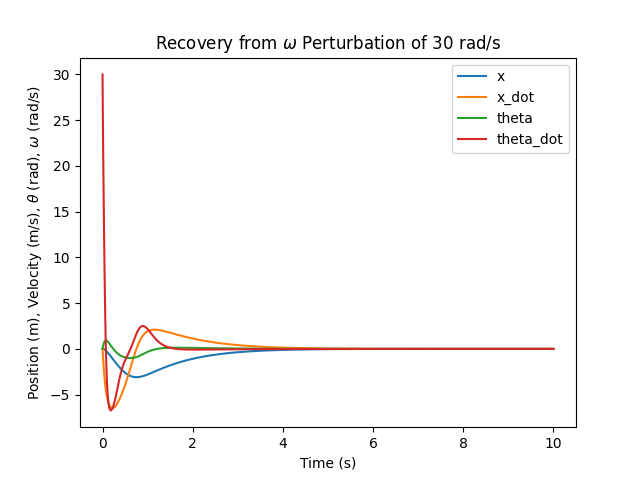
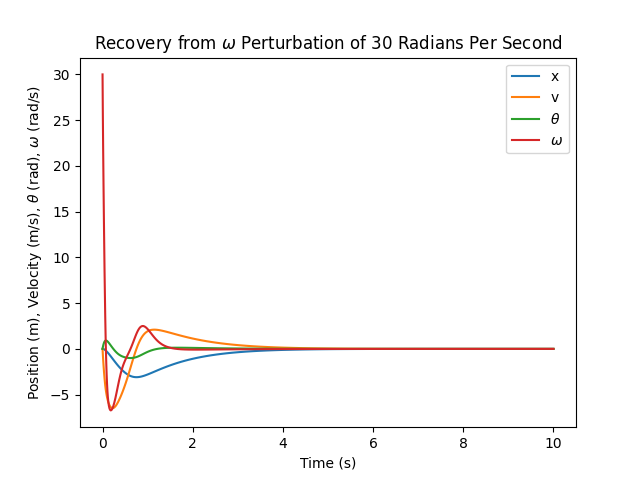
cleaned up graphs

Changed region(s): [[0.125, 0.0625, 0.875, 0.125], [0.7188, 0.1562, 0.875, 0.3125], [0.7188, 0.1562, 0.75, 0.25]]

diff --git a/mini_project/cart_pole.py b/mini_project/cart_pole.py
@@ -127,8 +127,8 @@ def test_controller(t, x, theta, f, x_dot_dot, theta_dot_dot, K, state_0=None, t
     Values must be substituted in.
     """
     if state_0 is None:
-        state_0 = [0, 0, np.radians(70), 0]  # recovery from being tilted 70 degrees
-        # state_0 = [-15, 0, 0, 0]  # recovery from being offset horizontally by 15m
+        # state_0 = [0, 0, np.radians(70), 0]  # recovery from being tilted 70 degrees
+        state_0 = [-15, 0, 0, 0]  # recovery from being offset horizontally by 15m
         # state_0 = [0, 5, 0, 0]  # recovery from being imparted a velocity of 5 m/s
         # state_0 = [0, 0, 0, 30]  # recovery from being imparted an angular velocity of 30 rad/s
 
@@ -196,13 +196,13 @@ def main():
 
     # graph
     t_vals, state_vals = test_controller(t, x, theta, f, x_dot_dot, theta_dot_dot, K)
-    for i, label in enumerate(['x', 'x_dot', 'theta', 'theta_dot']):
+    for i, label in enumerate(['x', 'v', r'$\theta$', r'$\omega$']):
         plt.plot(t_vals, state_vals[i, :], label=label)
     plt.xlabel('Time (s)')
     plt.ylabel(r'Position (m), Velocity (m/s), $\theta$ (rad), $\omega$ (rad/s)')
-    plt.title(r'Recovery from $\theta Perturbation of 70 Degrees')
+    plt.title(r'Recovery from x Perturbation of 15 Meters')
     plt.legend()
-    plt.savefig('theta_perturbation.png')
+    plt.savefig('x_perturbation.png')
     plt.show()
 
 
